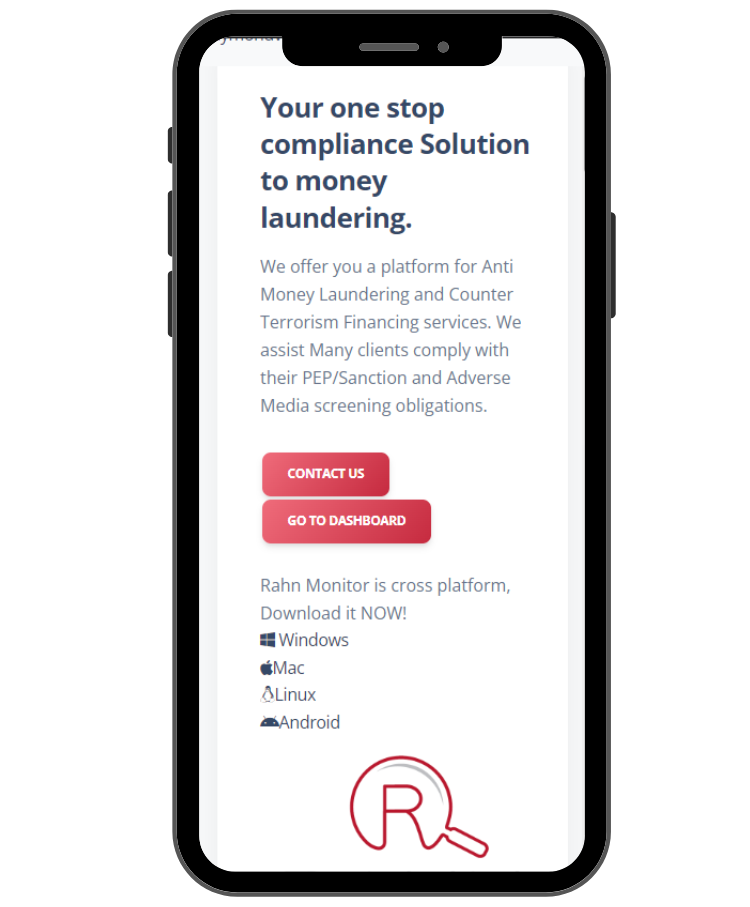
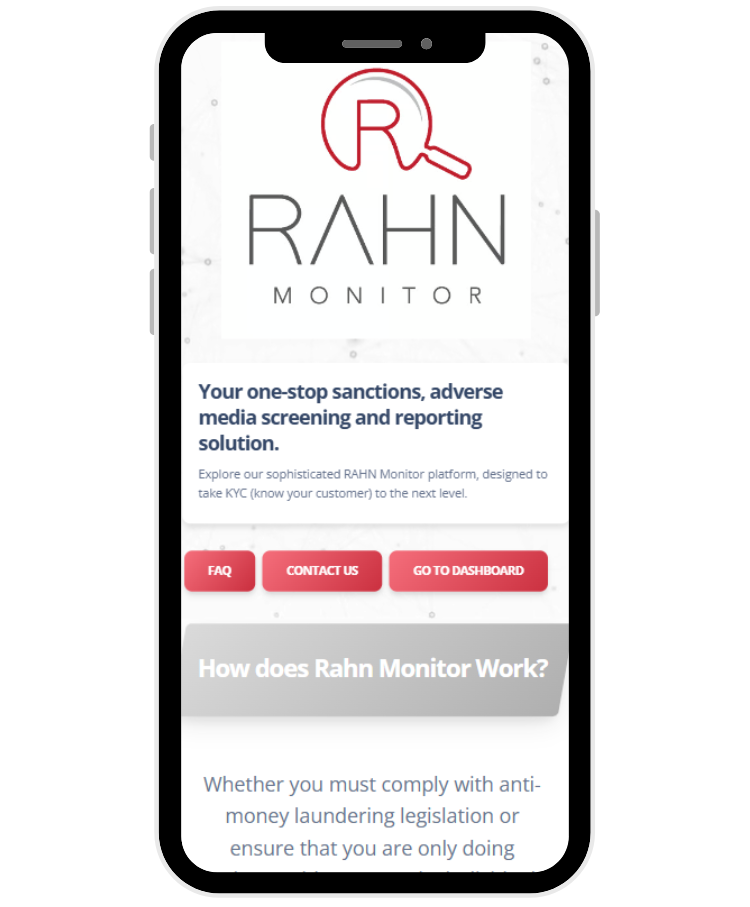
UI update

Changed region(s): [[0.184, 0.0, 0.828, 0.9879], [0.644, 0.4939, 0.7053, 0.5248]]

diff --git a/components/home-page/home/OurAim.jsx b/components/home-page/home/OurAim.jsx
@@ -12,27 +12,27 @@ const OurAim = () => {
   ];
 
   const imageItems = [
-    { src: "/images/media/RahnMonitorGrapgic.png", alt: "Rahn monitor Graphic" },
-    {
-      src: "/images/shape/shape_10.svg",
-      alt: "shape",
-      className: "shapes shape-two",
-    },
-    {
-      src: "/images/shape/shape_11.svg",
-      alt: "shape",
-      className: "lazy-img shapes shape-four",
-    },
-    {
-      src: "/images/shape/shape_12.svg",
-      alt: "shape",
-      className: "lazy-img shapes shape-five",
-    },
-    {
-      src: "/images/shape/shape_13.svg",
-      alt: "shape",
-      className: "lazy-img shapes shape-seven",
-    },
+    { src: "/images/media/RahnMonitorGrapgic.png", alt: "Rahn monitor Graphic" }
+    // {
+    //   src: "/images/shape/shape_10.svg",
+    //   alt: "shape",
+    //   className: "shapes shape-two",
+    // },
+    // {
+    //   src: "/images/shape/shape_11.svg",
+    //   alt: "shape",
+    //   className: "lazy-img shapes shape-four",
+    // },
+    // {
+    //   src: "/images/shape/shape_12.svg",
+    //   alt: "shape",
+    //   className: "lazy-img shapes shape-five",
+    // },
+    // {
+    //   src: "/images/shape/shape_13.svg",
+    //   alt: "shape",
+    //   className: "lazy-img shapes shape-seven",
+    // },
   ];
 
   return (

diff --git a/components/home-page/home/Illustration.jsx b/components/home-page/home/Illustration.jsx
@@ -1,10 +1,10 @@
 const Illustration = () => {
   const shapes = [
-    { src: "/images/shape/shape_01.svg", className: "shapes shape-one" },
-    { src: "/images/shape/shape_02.svg", className: "shapes shape-two" },
-    { src: "/images/shape/shape_03.svg", className: "shapes shape-three" },
-    // { src: "/images/shape/shape_04.svg", className: "shapes shape-four" },
-    { src: "/images/shape/shape_04.svg", className: "shapes shape-five" },
+    // { src: "/images/shape/shape_01.svg", className: "shapes shape-one" },
+    // { src: "/images/shape/shape_02.svg", className: "shapes shape-two" },
+    // { src: "/images/shape/shape_03.svg", className: "shapes shape-three" },
+    // // { src: "/images/shape/shape_04.svg", className: "shapes shape-four" },
+    // { src: "/images/shape/shape_04.svg", className: "shapes shape-five" },
   ];
 
   return (

diff --git a/pages/recruitment.tsx b/pages/recruitment.tsx
@@ -183,7 +183,7 @@ const Recruitment = () => {
         <div className="container">
           <div className="row">
             <div className="col-lg-10 col-md-9 m-auto">
-              <p>
+              <div>
                 {" "}
                 <h3 className="tx-dark text-center mt-40 mb-20 lg-mt-40 lg-mb-50 wow fadeInUp">
                   INTRODUCING The RAHN Recruitment Candidate Screening
@@ -227,7 +227,7 @@ const Recruitment = () => {
                   If you’d simply like to send us your CV, fill in the form and
                   Upload your CV Today!
                 </h3>
-              </p>
+              </div>
             </div>
           </div>
         </div>

diff --git a/public/scss/_style.scss b/public/scss/_style.scss
@@ -1879,16 +1879,16 @@ body .btn-twentyFive:hover {
 }
 
 .hero-banner-one .hero-heading span:before {
-  content: "";
-  position: absolute;
-  left: 0;
-  bottom: 10px;
-  width: 100%;
-  height: 18px;
-  background: #be1e2e;
-  mix-blend-mode: normal;
-  opacity: 0.5;
-  z-index: -1;
+  // content: "";
+  // position: absolute;
+  // left: 0;
+  // bottom: 10px;
+  // width: 100%;
+  // height: 18px;
+  // background: #be1e2e;
+  // mix-blend-mode: normal;
+  // opacity: 0.5;
+  // z-index: -1;
 }
 
 .hero-banner-one form {

diff --git a/pages/rahnmonitor.tsx b/pages/rahnmonitor.tsx
@@ -54,11 +54,7 @@ const RahnMonitor = () => {
         <div className="bg-wrapper" data-aos="fade">
           <Hero />
           {/* /.container */}
-          <img
-            src="/images/shape/shape_08.svg"
-            alt="illustration"
-            className="lazy-img shapes shape-eight"
-          />
+          
         </div>
       </div>
       {/* /.hero-banner-one */}

diff --git a/components/home-page/home/footer/header/MainMenu.jsx b/components/home-page/home/footer/header/MainMenu.jsx
@@ -116,6 +116,13 @@ const MainMenu = () => {
               ))}
             </ul>
           </li>
+         
+          <li className="nav-item dropdown">
+            <a className="nav-link dropdown-toggle" 
+              href="/recruitment">
+              Send CV
+            </a>
+          </li>
         </ul>
       </div>
     </nav>

diff --git a/components/header/MainMenu.jsx b/components/header/MainMenu.jsx
@@ -116,6 +116,11 @@ const MainMenu = () => {
               ))}
             </ul>
           </li>
+          <li className="nav-item dropdown">
+            <a className="nav-link dropdown-toggle" href="/recruitment">
+              Send CV
+            </a>
+          </li>
         </ul>
       </div>
     </nav>

diff --git a/components/home-page/home/header/MainMenu.jsx b/components/home-page/home/header/MainMenu.jsx
@@ -116,6 +116,11 @@ const MainMenu = () => {
               ))}
             </ul>
           </li>
+          <li className="nav-item dropdown">
+            <a className="nav-link dropdown-toggle" href="/recruitment">
+              Send CV
+            </a>
+          </li>
         </ul>
       </div>
     </nav>
